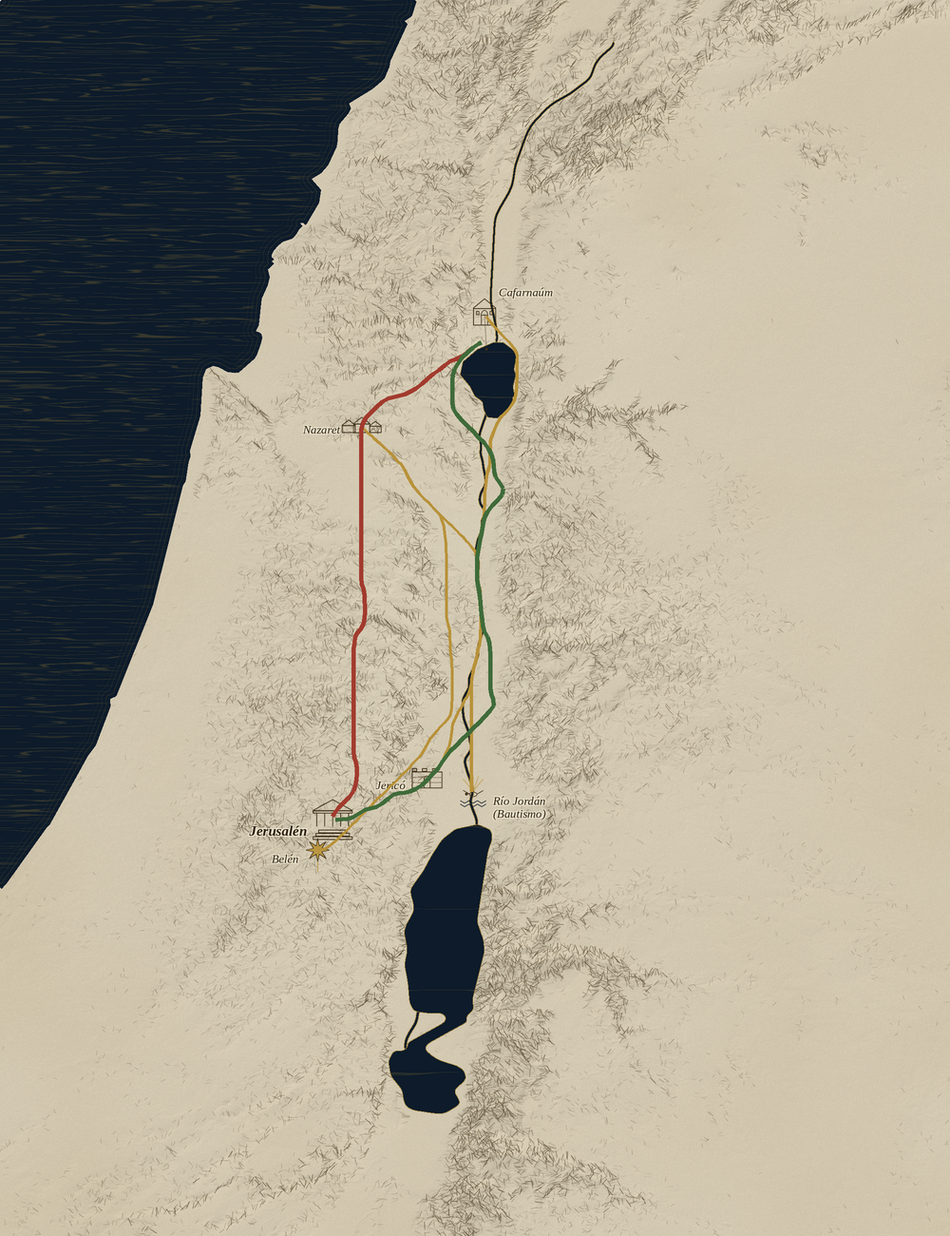
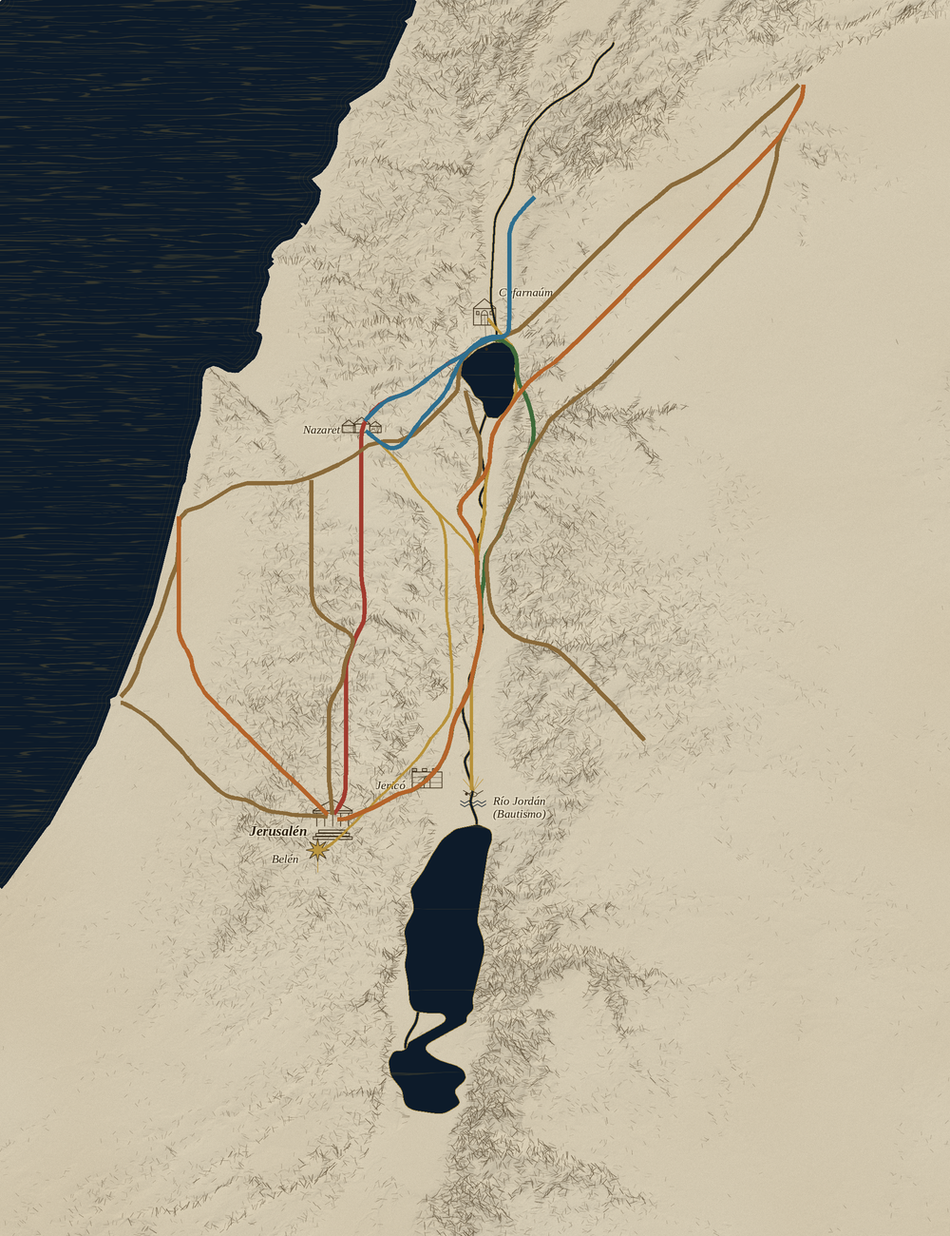
feat: rutas históricas por categorías (calzadas, ministerio, Pablo)
Amplía a 11 rutas históricas trazadas con el motor de terreno pasando por las
ciudades correctas, agrupadas y activables desde una leyenda por categoría:
- Galilea → Jerusalén: Por Samaria (afinada por Sicar/Efraín) y Por Perea
  (por Gadara/Pela).
- Calzadas romanas (red, sólido marrón): Vía Maris, valle del Jordán,
  cordillera, Jope–Jerusalén y Transjordania. Toggle único de red.
- Viajes de Jesús (azul): gira por Galilea, a Cesarea de Filipo.
- Hechos/Pablo (naranja): camino a Damasco, Pablo a Cesarea.
Estilo del mapa de referencia: sólido para calzadas, guion para viajes.

diff --git a/web/routes.js b/web/routes.js
@@ -1,2 +1,2 @@
 window.ROUTES = [{"a": "Belén", "b": "Nazaret", "pts": [[33.945, 68.693], [34.305, 68.561], [35.01, 68.207], [35.8, 67.677], [36.6, 67.076], [37.4, 66.462], [38.2, 65.846], [39.0, 65.231], [39.8, 64.615], [40.6, 64.0], [41.4, 63.385], [42.2, 62.769], [42.993, 62.154], [43.751, 61.538], [44.406, 60.923], [44.929, 60.308], [45.43, 59.692], [46.051, 59.077], [46.742, 58.462], [47.283, 57.846], [47.534, 57.231], [47.593, 56.615], [47.6, 56.0], [47.6, 55.385], [47.6, 54.769], [47.594, 54.154], [47.562, 53.538], [47.49, 52.923], [47.425, 52.308], [47.39, 51.692], [47.321, 51.077], [47.181, 50.462], [47.055, 49.846], [47.008, 49.231], [47.0, 48.615], [47.0, 48.0], [47.0, 47.385], [47.0, 46.769], [47.0, 46.154], [47.0, 45.538], [46.997, 44.923], [46.974, 44.308], [46.906, 43.692], [46.806, 43.077], [46.65, 42.462], [46.321, 41.846], [45.741, 41.231], [45.002, 40.615], [44.258, 40.0], [43.617, 39.385], [43.109, 38.769], [42.663, 38.154], [42.108, 37.539], [41.388, 36.926], [40.599, 36.328], [39.805, 35.765], [39.063, 35.25], [38.584, 34.906], [38.545, 34.877]]}, {"a": "Nazaret", "b": "Río Jordán (Bautismo)", "pts": [[38.545, 34.877], [38.769, 35.04], [39.235, 35.371], [39.805, 35.765], [40.4, 36.183], [40.997, 36.623], [41.579, 37.078], [42.108, 37.539], [42.54, 38.0], [42.888, 38.462], [43.225, 38.923], [43.617, 39.385], [44.085, 39.846], [44.623, 40.308], [45.204, 40.769], [45.8, 41.231], [46.4, 41.692], [47.0, 42.154], [47.6, 42.615], [48.198, 43.077], [48.787, 43.538], [49.334, 44.0], [49.773, 44.462], [50.043, 44.923], [50.16, 45.385], [50.195, 45.846], [50.21, 46.308], [50.241, 46.769], [50.307, 47.231], [50.4, 47.692], [50.493, 48.154], [50.559, 48.615], [50.589, 49.077], [50.598, 49.538], [50.6, 50.0], [50.599, 50.462], [50.593, 50.923], [50.568, 51.385], [50.503, 51.846], [50.395, 52.308], [50.269, 52.769], [50.14, 53.231], [50.001, 53.692], [49.866, 54.154], [49.756, 54.615], [49.676, 55.077], [49.626, 55.538], [49.606, 56.0], [49.601, 56.462], [49.6, 56.923], [49.6, 57.385], [49.6, 57.846], [49.6, 58.308], [49.6, 58.769], [49.6, 59.231], [49.6, 59.692], [49.6, 60.154], [49.6, 60.615], [49.6, 61.077], [49.6, 61.538], [49.6, 62.0], [49.6, 62.461], [49.602, 62.919], [49.611, 63.357], [49.627, 63.716], [49.639, 63.889], [49.639, 63.889]]}, {"a": "Río Jordán (Bautismo)", "b": "Cafarnaúm", "pts": [[49.639, 63.889], [49.621, 63.611], [49.604, 63.069], [49.6, 62.461], [49.6, 61.846], [49.6, 61.231], [49.6, 60.615], [49.6, 60.0], [49.6, 59.385], [49.6, 58.769], [49.6, 58.154], [49.6, 57.538], [49.6, 56.923], [49.602, 56.308], [49.617, 55.692], [49.676, 55.077], [49.79, 54.462], [49.954, 53.846], [50.14, 53.231], [50.312, 52.615], [50.471, 52.0], [50.568, 51.385], [50.596, 50.769], [50.6, 50.154], [50.598, 49.538], [50.582, 48.923], [50.519, 48.308], [50.4, 47.692], [50.281, 47.077], [50.218, 46.462], [50.208, 45.846], [50.239, 45.231], [50.324, 44.615], [50.453, 44.0], [50.619, 43.385], [50.771, 42.769], [50.882, 42.154], [50.962, 41.538], [50.996, 40.923], [51.016, 40.308], [51.072, 39.692], [51.163, 39.077], [51.281, 38.462], [51.438, 37.846], [51.557, 37.231], [51.6, 36.615], [51.642, 36.0], [51.788, 35.385], [52.067, 34.769], [52.467, 34.154], [53.038, 33.538], [53.66, 32.923], [54.097, 32.308], [54.306, 31.692], [54.382, 31.077], [54.4, 30.462], [54.409, 29.846], [54.41, 29.231], [54.28, 28.615], [53.86, 28.0], [53.19, 27.385], [52.459, 26.773], [51.807, 26.202], [51.401, 25.834], [51.368, 25.804]]}, {"a": "Cafarnaúm", "b": "Jericó", "pts": [[51.368, 25.804], [51.673, 26.081], [52.284, 26.623], [53.006, 27.231], [53.709, 27.846], [54.205, 28.462], [54.397, 29.077], [54.412, 29.692], [54.402, 30.308], [54.389, 30.923], [54.334, 31.538], [54.167, 32.154], [53.793, 32.769], [53.199, 33.385], [52.594, 34.0], [52.154, 34.615], [51.846, 35.231], [51.666, 35.846], [51.606, 36.462], [51.573, 37.077], [51.476, 37.692], [51.318, 38.308], [51.189, 38.923], [51.093, 39.538], [51.026, 40.154], [51.0, 40.769], [50.974, 41.385], [50.906, 42.0], [50.802, 42.615], [50.661, 43.231], [50.492, 43.846], [50.352, 44.462], [50.255, 45.077], [50.211, 45.692], [50.212, 46.308], [50.259, 46.923], [50.367, 47.538], [50.493, 48.154], [50.572, 48.769], [50.597, 49.385], [50.6, 50.0], [50.598, 50.615], [50.58, 51.231], [50.503, 51.846], [50.354, 52.462], [50.184, 53.077], [50.001, 53.692], [49.824, 54.308], [49.675, 54.923], [49.498, 55.538], [49.221, 56.154], [48.837, 56.769], [48.408, 57.385], [47.997, 58.0], [47.696, 58.615], [47.523, 59.231], [47.384, 59.846], [47.172, 60.462], [46.852, 61.077], [46.464, 61.689], [45.972, 62.26], [45.571, 62.628], [45.536, 62.658]]}, {"a": "Jericó", "b": "Jerusalén", "pts": [[44.455, 63.462], [44.416, 63.484], [44.34, 63.526], [44.231, 63.584], [44.095, 63.651], [43.937, 63.724], [43.765, 63.797], [43.581, 63.866], [43.39, 63.929], [43.195, 63.984], [42.998, 64.032], [42.799, 64.072], [42.6, 64.108], [42.4, 64.142], [42.2, 64.177], [42.0, 64.216], [41.8, 64.263], [41.6, 64.321], [41.4, 64.39], [41.2, 64.472], [41.0, 64.564], [40.8, 64.664], [40.6, 64.77], [40.4, 64.875], [40.2, 64.976], [40.0, 65.07], [39.8, 65.155], [39.6, 65.229], [39.4, 65.295], [39.2, 65.354], [39.0, 65.41], [38.8, 65.466], [38.6, 65.527], [38.4, 65.593], [38.2, 65.666], [38.0, 65.744], [37.8, 65.824], [37.6, 65.904], [37.4, 65.981], [37.201, 66.051], [37.002, 66.112], [36.805, 66.164], [36.61, 66.205], [36.419, 66.238], [36.235, 66.261], [36.063, 66.278], [35.905, 66.29], [35.769, 66.297], [35.66, 66.302], [35.584, 66.304], [35.545, 66.305], [35.545, 66.305]]}];
-window.HISTROUTES = [{"id": "samaria", "name": "Ruta habitual (por Samaria)", "color": "#a23b2e", "pts": [[50.455, 27.815], [49.937, 28.077], [48.998, 28.591], [48.0, 29.04], [47.0, 29.475], [46.0, 30.039], [45.0, 30.651], [44.0, 31.268], [43.0, 31.726], [42.0, 32.015], [41.0, 32.249], [40.003, 32.694], [39.055, 33.39], [38.357, 34.154], [38.061, 34.923], [38.004, 35.692], [38.0, 36.462], [38.0, 37.231], [38.0, 38.0], [38.0, 38.769], [38.0, 39.538], [38.0, 40.308], [38.0, 41.077], [38.0, 41.846], [38.0, 42.615], [38.0, 43.385], [38.0, 44.154], [38.0, 44.923], [38.001, 45.692], [38.016, 46.462], [38.124, 47.231], [38.309, 48.0], [38.39, 48.769], [38.387, 49.538], [38.253, 50.295], [37.835, 50.982], [37.441, 51.609], [37.273, 52.315], [37.21, 53.077], [37.2, 53.846], [37.2, 54.615], [37.2, 55.385], [37.2, 56.154], [37.2, 56.923], [37.2, 57.692], [37.2, 58.462], [37.2, 59.231], [37.203, 60.0], [37.243, 60.769], [37.399, 61.538], [37.54, 62.308], [37.485, 63.077], [37.199, 63.846], [36.543, 64.615], [35.702, 65.357], [35.196, 65.858], [35.169, 65.889]]}, {"id": "perea", "name": "Ruta alternativa (por Perea)", "color": "#3f6b3a", "pts": [[50.455, 27.815], [49.94, 28.082], [49.044, 28.666], [48.266, 29.389], [47.785, 30.154], [47.62, 30.923], [47.602, 31.692], [47.64, 32.462], [47.917, 33.231], [48.64, 34.0], [49.6, 34.769], [50.565, 35.538], [51.347, 36.308], [51.801, 37.077], [52.011, 37.846], [52.291, 38.615], [52.726, 39.385], [52.597, 40.154], [51.847, 40.923], [51.173, 41.692], [50.853, 42.462], [50.662, 43.231], [50.453, 44.0], [50.298, 44.769], [50.217, 45.538], [50.212, 46.308], [50.281, 47.077], [50.433, 47.846], [50.565, 48.615], [50.65, 49.385], [50.768, 50.154], [50.982, 50.923], [51.348, 51.692], [51.564, 52.462], [51.599, 53.231], [51.6, 54.0], [51.601, 54.769], [51.633, 55.538], [51.786, 56.308], [51.785, 57.077], [51.156, 57.846], [50.199, 58.615], [49.2, 59.385], [48.206, 60.154], [47.281, 60.923], [46.529, 61.692], [45.747, 62.46], [44.797, 63.196], [43.8, 63.77], [42.8, 64.072], [41.8, 64.263], [40.8, 64.664], [39.8, 65.155], [38.8, 65.466], [37.8, 65.824], [36.805, 66.164], [35.905, 66.29], [35.545, 66.305]]}];
+window.HISTROUTES = [{"id": "samaria", "name": "Por Samaria", "cat": "galjer", "color": "#a23b2e", "style": "dash", "pts": [[50.455, 27.815], [49.937, 28.077], [48.998, 28.591], [48.0, 29.04], [47.0, 29.475], [46.0, 30.039], [45.0, 30.651], [44.0, 31.268], [43.0, 31.726], [42.0, 32.015], [41.0, 32.249], [40.003, 32.694], [39.055, 33.39], [38.357, 34.154], [38.061, 34.923], [38.004, 35.692], [38.0, 36.462], [38.0, 37.231], [38.0, 38.0], [38.0, 38.769], [38.0, 39.538], [38.0, 40.308], [38.0, 41.077], [38.0, 41.846], [38.0, 42.615], [38.0, 43.385], [38.0, 44.154], [38.0, 44.923], [38.001, 45.692], [38.016, 46.462], [38.124, 47.231], [38.309, 48.0], [38.39, 48.769], [38.387, 49.538], [38.253, 50.295], [37.834, 50.982], [37.414, 51.609], [37.075, 52.315], [36.67, 53.077], [36.444, 53.846], [36.402, 54.615], [36.4, 55.385], [36.4, 56.154], [36.4, 56.923], [36.4, 57.692], [36.4, 58.462], [36.4, 59.231], [36.4, 60.0], [36.4, 60.769], [36.4, 61.538], [36.4, 62.308], [36.399, 63.077], [36.377, 63.846], [36.179, 64.615], [35.64, 65.357], [35.193, 65.858], [35.167, 65.889]]}, {"id": "perea", "name": "Por Perea", "cat": "galjer", "color": "#3f6b3a", "style": "dash", "pts": [[51.545, 27.486], [52.062, 27.434], [52.991, 27.584], [53.859, 28.082], [54.336, 28.778], [54.416, 29.539], [54.441, 30.308], [54.695, 31.077], [55.218, 31.846], [55.617, 32.615], [55.926, 33.385], [56.147, 34.154], [56.19, 34.923], [56.11, 35.692], [55.8, 36.462], [55.366, 37.231], [55.05, 38.0], [54.747, 38.769], [54.41, 39.538], [54.119, 40.308], [53.705, 41.077], [53.223, 41.846], [52.925, 42.615], [52.455, 43.385], [51.718, 44.154], [51.193, 44.923], [51.023, 45.692], [50.985, 46.462], [50.876, 47.231], [50.691, 48.0], [50.609, 48.769], [50.6, 49.538], [50.6, 50.308], [50.588, 51.077], [50.503, 51.846], [50.312, 52.615], [50.095, 53.385], [49.865, 54.154], [49.675, 54.923], [49.44, 55.692], [49.039, 56.462], [48.516, 57.231], [47.997, 58.0], [47.644, 58.769], [47.456, 59.538], [47.237, 60.308], [46.852, 61.077], [46.34, 61.846], [45.564, 62.612], [44.599, 63.329], [43.6, 63.852], [42.6, 64.108], [41.6, 64.321], [40.6, 64.77], [39.6, 65.229], [38.6, 65.527], [37.6, 65.904], [36.61, 66.205], [35.769, 66.297], [35.545, 66.305]]}, {"id": "viamaris", "name": "Vía Maris", "cat": "camino", "color": "#8a6a3a", "style": "solid", "pts": [[12.743, 56.35], [13.676, 55.531], [14.444, 54.308], [14.875, 53.077], [15.649, 51.846], [16.369, 50.615], [16.971, 49.385], [17.454, 48.154], [17.984, 46.923], [18.6, 45.692], [18.795, 44.462], [18.8, 43.231], [18.866, 42.038], [19.666, 41.312], [21.2, 40.93], [22.8, 40.202], [24.4, 39.449], [26.0, 39.104], [27.6, 39.077], [29.2, 39.077], [30.8, 39.037], [32.4, 38.67], [34.0, 38.154], [35.6, 37.587], [37.2, 36.891], [38.8, 36.008], [40.4, 35.71], [42.0, 35.662], [43.6, 35.151], [45.2, 33.999], [46.799, 32.77], [48.199, 31.579], [48.271, 30.449], [48.486, 29.239], [49.806, 28.168], [51.4, 27.523], [53.0, 27.226], [54.6, 26.69], [56.2, 25.538], [57.8, 24.308], [59.4, 23.077], [61.0, 21.846], [62.6, 20.615], [64.2, 19.385], [65.8, 18.156], [67.4, 17.048], [69.0, 16.114], [70.6, 15.03], [72.2, 14.453], [73.8, 13.803], [75.4, 12.934], [77.0, 11.98], [78.6, 10.77], [80.2, 9.599], [81.8, 8.573], [83.365, 7.412], [84.055, 6.881]]}, {"id": "valle", "name": "Camino del valle", "cat": "camino", "color": "#8a6a3a", "style": "solid", "pts": [[49.016, 31.65], [49.075, 31.927], [49.253, 32.469], [49.472, 33.077], [49.633, 33.692], [49.856, 34.308], [50.186, 34.923], [50.451, 35.538], [50.568, 36.154], [50.595, 36.769], [50.582, 37.385], [50.517, 38.0], [50.349, 38.615], [49.983, 39.231], [49.368, 39.846], [48.676, 40.462], [48.254, 41.077], [48.401, 41.692], [48.965, 42.308], [49.527, 42.923], [49.895, 43.538], [50.102, 44.154], [50.183, 44.769], [50.199, 45.385], [50.203, 46.0], [50.228, 46.615], [50.307, 47.231], [50.433, 47.846], [50.541, 48.462], [50.589, 49.077], [50.599, 49.692], [50.6, 50.308], [50.593, 50.923], [50.552, 51.538], [50.434, 52.154], [50.269, 52.769], [50.095, 53.385], [49.908, 54.0], [49.749, 54.615], [49.595, 55.231], [49.374, 55.846], [49.039, 56.462], [48.624, 57.077], [48.195, 57.692], [47.828, 58.308], [47.598, 58.923], [47.456, 59.538], [47.293, 60.154], [47.022, 60.769], [46.667, 61.385], [46.21, 62.0], [45.564, 62.612], [44.797, 63.196], [44.0, 63.676], [43.2, 63.98], [42.4, 64.142], [41.6, 64.321], [40.8, 64.664], [40.0, 65.07], [39.2, 65.354], [38.4, 65.593], [37.6, 65.904], [36.805, 66.164], [36.063, 66.278], [35.584, 66.304], [35.545, 66.305]]}, {"id": "ridge", "name": "Camino de la cordillera", "cat": "camino", "color": "#8a6a3a", "style": "solid", "pts": [[34.991, 65.889], [34.974, 65.716], [34.929, 65.357], [34.867, 64.919], [34.809, 64.461], [34.753, 64.0], [34.691, 63.538], [34.638, 63.077], [34.61, 62.615], [34.602, 62.154], [34.6, 61.692], [34.6, 61.231], [34.6, 60.769], [34.6, 60.308], [34.6, 59.846], [34.6, 59.385], [34.6, 58.923], [34.6, 58.462], [34.603, 58.0], [34.623, 57.538], [34.702, 57.077], [34.907, 56.615], [35.248, 56.154], [35.633, 55.692], [35.937, 55.231], [36.11, 54.769], [36.196, 54.308], [36.278, 53.846], [36.438, 53.385], [36.69, 52.923], [36.964, 52.465], [37.139, 52.021], [37.107, 51.618], [36.828, 51.288], [36.358, 51.026], [35.793, 50.792], [35.2, 50.546], [34.603, 50.259], [34.023, 49.914], [33.504, 49.512], [33.117, 49.072], [32.904, 48.615], [32.823, 48.154], [32.803, 47.692], [32.8, 47.231], [32.8, 46.769], [32.8, 46.308], [32.8, 45.846], [32.8, 45.385], [32.8, 44.923], [32.8, 44.462], [32.8, 44.0], [32.8, 43.538], [32.8, 43.077], [32.8, 42.615], [32.8, 42.154], [32.8, 41.692], [32.8, 41.231], [32.8, 40.769], [32.8, 40.308], [32.798, 39.85], [32.789, 39.412], [32.773, 39.053], [32.761, 38.881], [32.761, 38.881]]}, {"id": "costajer", "name": "Camino Jope–Jerusalén", "cat": "camino", "color": "#8a6a3a", "style": "solid", "pts": [[12.745, 56.848], [12.86, 56.882], [13.105, 56.958], [13.435, 57.07], [13.81, 57.214], [14.202, 57.385], [14.6, 57.579], [15.0, 57.79], [15.4, 58.014], [15.8, 58.253], [16.2, 58.512], [16.6, 58.79], [17.0, 59.084], [17.399, 59.387], [17.797, 59.693], [18.191, 60.0], [18.573, 60.308], [18.936, 60.615], [19.276, 60.923], [19.6, 61.231], [19.924, 61.538], [20.264, 61.846], [20.627, 62.154], [21.009, 62.462], [21.403, 62.769], [21.801, 63.076], [22.2, 63.38], [22.6, 63.675], [23.0, 63.95], [23.4, 64.187], [23.8, 64.371], [24.2, 64.496], [24.6, 64.57], [25.0, 64.615], [25.4, 64.659], [25.8, 64.728], [26.2, 64.839], [26.6, 64.992], [27.0, 65.167], [27.4, 65.338], [27.8, 65.481], [28.2, 65.587], [28.6, 65.661], [29.0, 65.714], [29.4, 65.76], [29.8, 65.803], [30.2, 65.846], [30.6, 65.888], [31.0, 65.926], [31.4, 65.958], [31.8, 65.98], [32.2, 65.992], [32.6, 65.998], [32.998, 66.003], [33.39, 66.01], [33.765, 66.026], [34.095, 66.049], [34.34, 66.074], [34.455, 66.089], [34.455, 66.089]]}, {"id": "transjordan", "name": "Camino de Transjordania", "cat": "camino", "color": "#8a6a3a", "style": "solid", "pts": [[84.597, 6.881], [84.549, 7.412], [84.229, 8.308], [83.461, 9.231], [82.759, 10.154], [82.165, 11.077], [81.837, 12.0], [81.742, 12.923], [81.399, 13.846], [81.015, 14.769], [80.709, 15.692], [80.258, 16.615], [79.768, 17.538], [79.071, 18.462], [77.994, 19.385], [76.8, 20.308], [75.6, 21.231], [74.4, 22.154], [73.2, 23.077], [72.0, 24.0], [70.8, 24.923], [69.6, 25.846], [68.4, 26.769], [67.2, 27.692], [66.0, 28.615], [64.8, 29.538], [63.6, 30.45], [62.4, 31.242], [61.2, 31.857], [60.0, 32.599], [58.812, 33.329], [57.811, 34.047], [57.198, 34.925], [56.449, 35.846], [55.659, 36.769], [55.166, 37.692], [54.812, 38.615], [54.41, 39.538], [54.055, 40.462], [53.496, 41.385], [53.036, 42.308], [52.582, 43.231], [51.744, 44.154], [51.266, 45.077], [51.218, 46.0], [51.311, 46.923], [51.416, 47.846], [51.558, 48.769], [51.931, 49.692], [52.829, 50.61], [54.0, 51.419], [55.2, 51.829], [56.4, 52.032], [57.6, 52.221], [58.8, 52.695], [60.0, 53.541], [61.2, 54.462], [62.4, 55.385], [63.599, 56.308], [64.773, 57.231], [65.8, 58.154], [66.813, 59.069], [67.708, 59.8], [67.816, 59.889]]}, {"id": "galilea", "name": "Gira por Galilea", "cat": "ministerio", "color": "#2f6f8f", "style": "dash", "pts": [[38.421, 34.042], [38.623, 33.87], [39.058, 33.514], [39.61, 33.091], [40.201, 32.692], [40.8, 32.382], [41.4, 32.176], [42.0, 32.023], [42.6, 31.859], [43.2, 31.65], [43.8, 31.376], [44.4, 31.032], [45.0, 30.651], [45.6, 30.278], [46.2, 29.922], [46.8, 29.58], [47.4, 29.284], [48.0, 29.04], [48.6, 28.788], [49.2, 28.484], [49.8, 28.159], [50.4, 27.871], [51.0, 27.644], [51.599, 27.471], [52.187, 27.345], [52.721, 27.271], [53.087, 27.24], [53.145, 27.232], [52.869, 27.231], [52.375, 27.236], [51.797, 27.261], [51.2, 27.351], [50.6, 27.56], [50.003, 27.897], [49.421, 28.317], [48.89, 28.77], [48.46, 29.231], [48.132, 29.692], [47.853, 30.154], [47.587, 30.615], [47.32, 31.077], [47.011, 31.538], [46.615, 32.0], [46.131, 32.462], [45.587, 32.923], [45.025, 33.385], [44.49, 33.846], [44.01, 34.308], [43.588, 34.769], [43.18, 35.228], [42.718, 35.673], [42.18, 36.053], [41.597, 36.267], [41.0, 36.233], [40.4, 35.988], [39.805, 35.656], [39.235, 35.316], [38.769, 35.02], [38.545, 34.87], [38.545, 34.87]]}, {"id": "cesareafilipo", "name": "A Cesarea de Filipo", "cat": "ministerio", "color": "#2f6f8f", "style": "dash", "pts": [[51.545, 27.478], [51.584, 27.468], [51.66, 27.449], [51.768, 27.424], [51.903, 27.395], [52.058, 27.363], [52.226, 27.331], [52.401, 27.3], [52.577, 27.27], [52.748, 27.239], [52.911, 27.206], [53.059, 27.167], [53.191, 27.12], [53.302, 27.061], [53.393, 26.989], [53.463, 26.903], [53.514, 26.803], [53.549, 26.69], [53.572, 26.565], [53.586, 26.431], [53.594, 26.29], [53.598, 26.144], [53.599, 25.995], [53.6, 25.844], [53.6, 25.691], [53.6, 25.538], [53.6, 25.384], [53.6, 25.231], [53.6, 25.077], [53.6, 24.923], [53.6, 24.769], [53.6, 24.615], [53.6, 24.462], [53.6, 24.308], [53.6, 24.154], [53.6, 24.0], [53.6, 23.846], [53.6, 23.692], [53.6, 23.538], [53.6, 23.385], [53.6, 23.231], [53.6, 23.077], [53.6, 22.923], [53.6, 22.769], [53.6, 22.615], [53.6, 22.462], [53.6, 22.308], [53.6, 22.154], [53.6, 22.0], [53.6, 21.846], [53.6, 21.692], [53.6, 21.538], [53.6, 21.385], [53.6, 21.231], [53.6, 21.077], [53.6, 20.923], [53.6, 20.769], [53.6, 20.615], [53.6, 20.462], [53.6, 20.308], [53.6, 20.154], [53.6, 20.0], [53.601, 19.846], [53.602, 19.692], [53.605, 19.538], [53.609, 19.385], [53.616, 19.231], [53.628, 19.077], [53.645, 18.923], [53.672, 18.769], [53.708, 18.615], [53.758, 18.462], [53.821, 18.308], [53.899, 18.154], [53.994, 18.0], [54.104, 17.846], [54.229, 17.692], [54.368, 17.539], [54.519, 17.385], [54.682, 17.231], [54.853, 17.079], [55.03, 16.927], [55.212, 16.777], [55.394, 16.63], [55.572, 16.489], [55.741, 16.356], [55.897, 16.235], [56.032, 16.13], [56.14, 16.046], [56.216, 15.988], [56.255, 15.958], [56.255, 15.958]]}, {"id": "damasco", "name": "Camino a Damasco", "cat": "pablo", "color": "#b5642a", "style": "dash", "pts": [[35.545, 66.305], [36.419, 66.238], [37.8, 65.824], [39.2, 65.354], [40.6, 64.77], [42.0, 64.216], [43.4, 63.921], [44.797, 63.196], [46.066, 62.153], [46.852, 61.077], [47.342, 60.0], [47.598, 58.923], [48.093, 57.846], [48.837, 56.769], [49.44, 55.692], [49.749, 54.615], [50.048, 53.538], [50.354, 52.462], [50.568, 51.385], [50.6, 50.308], [50.594, 49.231], [50.493, 48.154], [50.281, 47.077], [50.203, 46.0], [50.191, 44.923], [50.016, 43.846], [49.403, 42.769], [48.401, 41.692], [48.531, 40.615], [49.791, 39.538], [50.974, 38.462], [51.524, 37.385], [51.614, 36.308], [51.846, 35.231], [52.467, 34.154], [53.521, 33.077], [54.452, 32.0], [55.612, 30.931], [57.0, 30.019], [58.4, 29.294], [59.8, 28.306], [61.2, 27.231], [62.6, 26.154], [64.0, 25.077], [65.4, 24.0], [66.8, 22.923], [68.2, 21.846], [69.6, 20.769], [71.0, 19.692], [72.4, 18.615], [73.8, 17.538], [75.2, 16.462], [76.6, 15.385], [78.0, 14.308], [79.4, 13.231], [80.783, 12.154], [82.008, 11.077], [82.855, 10.0], [83.745, 8.923], [84.445, 7.85], [84.593, 6.969], [84.597, 6.881]]}, {"id": "pablocesarea", "name": "Pablo a Cesarea", "cat": "pablo", "color": "#b5642a", "style": "dash", "pts": [[34.455, 65.889], [34.34, 65.8], [34.095, 65.611], [33.765, 65.357], [33.39, 65.069], [32.998, 64.768], [32.6, 64.462], [32.2, 64.156], [31.8, 63.854], [31.4, 63.558], [31.0, 63.272], [30.6, 62.992], [30.2, 62.715], [29.8, 62.432], [29.4, 62.141], [29.0, 61.842], [28.6, 61.537], [28.2, 61.23], [27.8, 60.923], [27.4, 60.615], [27.0, 60.308], [26.6, 60.0], [26.2, 59.692], [25.8, 59.385], [25.4, 59.077], [25.0, 58.769], [24.6, 58.462], [24.2, 58.154], [23.8, 57.846], [23.4, 57.538], [23.001, 57.231], [22.606, 56.923], [22.221, 56.615], [21.859, 56.308], [21.535, 56.0], [21.258, 55.692], [21.023, 55.385], [20.814, 55.077], [20.623, 54.769], [20.457, 54.462], [20.329, 54.154], [20.237, 53.846], [20.156, 53.538], [20.053, 53.231], [19.897, 52.923], [19.683, 52.615], [19.438, 52.308], [19.205, 52.0], [19.021, 51.692], [18.902, 51.385], [18.839, 51.077], [18.813, 50.769], [18.803, 50.462], [18.801, 50.154], [18.8, 49.846], [18.8, 49.538], [18.8, 49.231], [18.8, 48.923], [18.8, 48.615], [18.8, 48.308], [18.8, 48.0], [18.8, 47.692], [18.8, 47.385], [18.8, 47.077], [18.8, 46.769], [18.8, 46.462], [18.8, 46.154], [18.8, 45.846], [18.8, 45.538], [18.8, 45.231], [18.8, 44.923], [18.8, 44.615], [18.8, 44.308], [18.8, 44.0], [18.8, 43.692], [18.8, 43.385], [18.8, 43.078], [18.8, 42.773], [18.8, 42.476], [18.8, 42.202], [18.8, 41.976], [18.8, 41.834], [18.8, 41.804]]}];

diff --git a/web/index.html b/web/index.html
@@ -85,9 +85,14 @@
   .histroute{ opacity:0; transition:opacity .25s; pointer-events:none }
   .histroute.on{ opacity:1 }
   .histroute .rt-line{ stroke-dasharray:7 5 }                          /* guion parejo */
+  .histroute.solid .rt-line{ stroke-dasharray:none; stroke-width:1.2 } /* calzadas: sólido fino */
+  .histroute.solid .rt-halo{ opacity:.4 }
+  .histroute.camino .rt-line{ opacity:.85 }
   /* control de rutas en el sidebar */
   .routes-ctrl{ padding:8px 14px 4px }
   .rc-title{ font-size:11px; letter-spacing:.05em; text-transform:uppercase; color:var(--muted); margin-bottom:6px }
+  .rc-group{ margin-bottom:9px }
+  .rc-grouptitle{ font-size:10px; letter-spacing:.05em; text-transform:uppercase; color:var(--muted); margin:0 0 5px }
   .rc-chips{ display:flex; flex-wrap:wrap; gap:6px }
   .rc-chip{ display:inline-flex; align-items:center; gap:6px; font-family:inherit; font-size:12.5px;
     color:var(--ink); background:#fbf5e4; border:1px solid var(--line); border-radius:999px;
@@ -196,8 +201,8 @@
       <input id="search" type="search" placeholder="Buscar lugar…" autocomplete="off" aria-label="Buscar lugar">
     </div>
     <div class="routes-ctrl" id="routesCtrl">
-      <div class="rc-title">Rutas Galilea → Jerusalén</div>
-      <div class="rc-chips" id="rcChips"></div>
+      <div class="rc-title">Rutas históricas</div>
+      <div id="rcGroups"></div>
     </div>
     <div class="list" id="list"></div>
     <div class="sb-foot">Grabado sobre relieve real (SRTM)</div>
@@ -315,19 +320,36 @@
   }
   // 1) itinerario narrativo (un grupo por tramo, para poder resaltar en el recorrido)
   ROUTES.forEach((rt,k)=>{ const g=routeGroup(rt.pts,'itin'); g.dataset.k=k; legEls.push(g); });
-  // 2) rutas históricas (ocultas hasta activarlas con los chips)
+  // 2) rutas históricas (ocultas hasta activarlas)
   const HIST = window.HISTROUTES || [];
   const histG = {};
-  HIST.forEach(h=>{ histG[h.id]=routeGroup(h.pts,'histroute',h.color); histG[h.id].dataset.route=h.id; });
-  // chips de activación en el sidebar
-  const rcChips=document.getElementById('rcChips');
-  if(!HIST.length){ const rc=document.getElementById('routesCtrl'); if(rc) rc.style.display='none'; }
   HIST.forEach(h=>{
-    const c=document.createElement('button'); c.className='rc-chip'; c.dataset.route=h.id;
-    c.innerHTML='<i style="background:'+h.color+'"></i>'+h.name.replace(/^Ruta \w+ \(por (.+)\)$/,'Por $1');
-    c.addEventListener('click',()=>{ const on=!c.classList.contains('on');
-      c.classList.toggle('on',on); histG[h.id].classList.toggle('on',on); });
-    rcChips.appendChild(c);
+    const cls='histroute '+(h.cat||'')+(h.style==='solid'?' solid':'');
+    histG[h.id]=routeGroup(h.pts,cls,h.color); histG[h.id].dataset.route=h.id;
+  });
+  // leyenda agrupada por categoría
+  const CATLABEL={galjer:"Galilea → Jerusalén",camino:"Calzadas romanas",
+                  ministerio:"Viajes de Jesús",pablo:"Hechos · Pablo"};
+  const CATORDER=["galjer","camino","ministerio","pablo"];
+  const rcG=document.getElementById('rcGroups');
+  if(!HIST.length){ const rc=document.getElementById('routesCtrl'); if(rc) rc.style.display='none'; }
+  const byCat={}; HIST.forEach(h=>{ (byCat[h.cat]=byCat[h.cat]||[]).push(h); });
+  function mkChip(label,color,fn){ const c=document.createElement('button'); c.className='rc-chip';
+    c.innerHTML='<i style="background:'+color+'"></i>'+label; c.addEventListener('click',()=>fn(c)); return c; }
+  CATORDER.forEach(cat=>{ const rs=byCat[cat]; if(!rs) return;
+    const g=document.createElement('div'); g.className='rc-group';
+    const t=document.createElement('div'); t.className='rc-grouptitle'; t.textContent=CATLABEL[cat]||cat; g.appendChild(t);
+    const chips=document.createElement('div'); chips.className='rc-chips'; g.appendChild(chips);
+    if(cat==='camino'){                                   // un toggle para toda la red
+      chips.appendChild(mkChip('Mostrar red', rs[0].color, c=>{
+        const on=!c.classList.contains('on'); c.classList.toggle('on',on);
+        rs.forEach(h=>histG[h.id].classList.toggle('on',on)); }));
+    } else {                                              // un chip por ruta
+      rs.forEach(h=>chips.appendChild(mkChip(h.name, h.color, c=>{
+        const on=!c.classList.contains('on'); c.classList.toggle('on',on);
+        histG[h.id].classList.toggle('on',on); })));
+    }
+    rcG.appendChild(g);
   });
 
   // ---------- lista lateral ----------

diff --git a/src/routes.py b/src/routes.py
@@ -120,22 +120,40 @@ def chain(waypoints_lnglat):
         allrc.extend(path if not allrc else path[1:])
     return smooth_decimate(np.asarray(allrc))
 
-hist = [
-    {"id": "samaria", "name": "Ruta habitual (por Samaria)", "color": "#a23b2e",
-     "pts": chain([(35.5753, 32.8808),   # Cafarnaúm / Galilea
-                   (35.2978, 32.7021),   # Nazaret
-                   (35.2833, 32.2139),   # Sicar (Samaria)
-                   (35.2900, 31.8700),   # Efraín (aprox.)
-                   (35.2354, 31.7780)])},# Jerusalén
-    {"id": "perea", "name": "Ruta alternativa (por Perea)", "color": "#3f6b3a",
-     "pts": chain([(35.5753, 32.8808),   # Cafarnaúm / Galilea
-                   (35.6200, 32.5500),   # bajada por la ribera este (Perea)
-                   (35.6000, 32.0500),   # Perea, valle del Jordán (este)
-                   (35.4440, 31.8700),   # Jericó (cruce del Jordán)
-                   (35.2354, 31.7780)])},# Jerusalén
+# Cada ruta: id, name, cat (galjer|camino|ministerio|pablo), color, style, waypoints(lng,lat)
+ROUTESPEC = [
+    # --- Galilea <-> Jerusalén (afinadas: pasan por las ciudades correctas) ---
+    dict(id="samaria", name="Por Samaria", cat="galjer", color="#a23b2e", style="dash",
+         wp=[(35.5753,32.8808),(35.2978,32.7021),(35.2833,32.2139),(35.2625,31.9917),(35.2354,31.7780)]),
+    dict(id="perea", name="Por Perea", cat="galjer", color="#3f6b3a", style="dash",
+         wp=[(35.5753,32.8808),(35.6817,32.6544),(35.6114,32.4522),(35.4440,31.8700),(35.2354,31.7780)]),
+    # --- Calzadas romanas (red principal, línea sólida marrón) ---
+    dict(id="viamaris", name="Vía Maris", cat="camino", color="#8a6a3a", style="solid",
+         wp=[(34.7550,32.0522),(34.8917,32.5000),(35.1840,32.5850),(35.5320,32.7959),(35.5753,32.8808),(35.6300,32.9100),(36.2765,33.5138)]),
+    dict(id="valle", name="Camino del valle", cat="camino", color="#8a6a3a", style="solid",
+         wp=[(35.5320,32.7959),(35.5000,32.5036),(35.4440,31.8700),(35.2354,31.7780)]),
+    dict(id="ridge", name="Camino de la cordillera", cat="camino", color="#8a6a3a", style="solid",
+         wp=[(35.2354,31.7780),(35.2833,32.2139),(35.1892,32.2764),(35.1840,32.5850)]),
+    dict(id="costajer", name="Camino Jope–Jerusalén", cat="camino", color="#8a6a3a", style="solid",
+         wp=[(34.7550,32.0522),(34.8925,31.9514),(34.9892,31.8390),(35.2354,31.7780)]),
+    dict(id="transjordan", name="Camino de Transjordania", cat="camino", color="#8a6a3a", style="solid",
+         wp=[(36.2765,33.5138),(35.6817,32.6544),(35.6114,32.4522),(35.9330,31.9500)]),
+    # --- Viajes del ministerio de Jesús (guion azulado) ---
+    dict(id="galilea", name="Gira por Galilea", cat="ministerio", color="#2f6f8f", style="dash",
+         wp=[(35.2978,32.7021),(35.3419,32.7480),(35.5753,32.8808),(35.6300,32.9100),(35.5647,32.9106),(35.5169,32.8267),(35.3714,32.6339),(35.2978,32.7021)]),
+    dict(id="cesareafilipo", name="A Cesarea de Filipo", cat="ministerio", color="#2f6f8f", style="dash",
+         wp=[(35.5753,32.8808),(35.6300,32.9100),(35.6928,33.2493)]),
+    # --- Hechos / Pablo (guion naranja) ---
+    dict(id="damasco", name="Camino a Damasco", cat="pablo", color="#b5642a", style="dash",
+         wp=[(35.2354,31.7780),(35.4440,31.8700),(35.5000,32.5036),(35.6558,32.7897),(36.2765,33.5138)]),
+    dict(id="pablocesarea", name="Pablo a Cesarea", cat="pablo", color="#b5642a", style="dash",
+         wp=[(35.2354,31.7780),(34.9390,32.1040),(34.8917,32.5000)]),
 ]
-for h in hist:
-    print(f"  ruta histórica: {h['name']:<32} puntos={len(h['pts'])}")
+hist = []
+for r in ROUTESPEC:
+    hist.append({"id": r["id"], "name": r["name"], "cat": r["cat"],
+                 "color": r["color"], "style": r["style"], "pts": chain(r["wp"])})
+    print(f"  {r['cat']:>10} · {r['name']:<26} puntos={len(hist[-1]['pts'])}")
 
 with open(os.path.join(os.path.dirname(PREVIEW), "web", "routes.js"), "w", encoding="utf-8") as f:
     f.write("window.ROUTES = " + json.dumps(routes, ensure_ascii=False) + ";\n")
